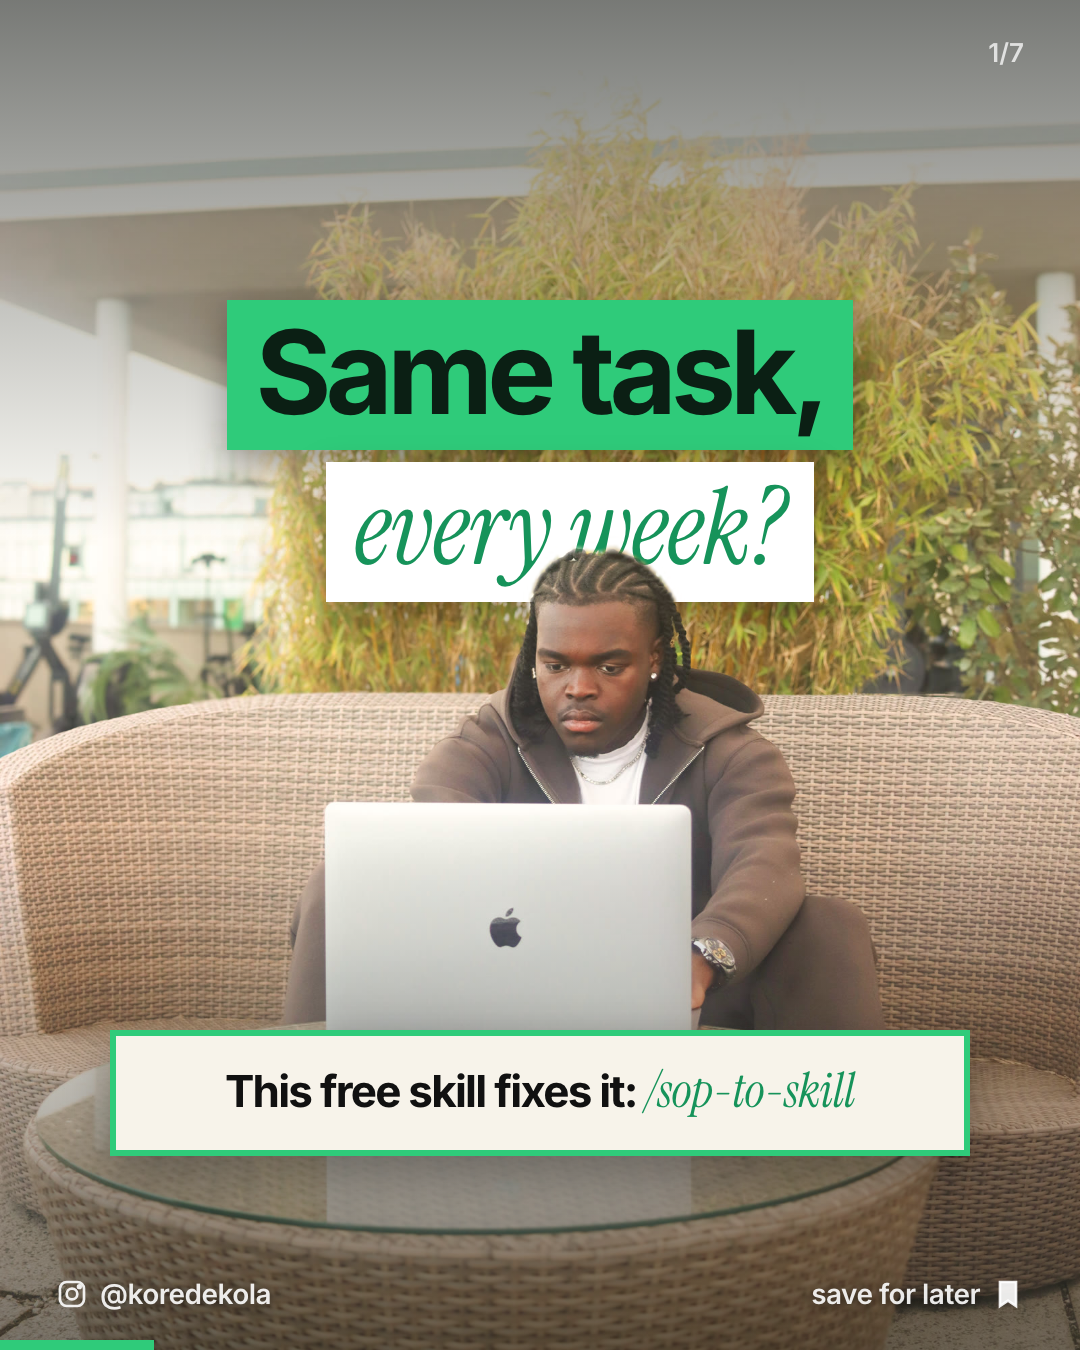
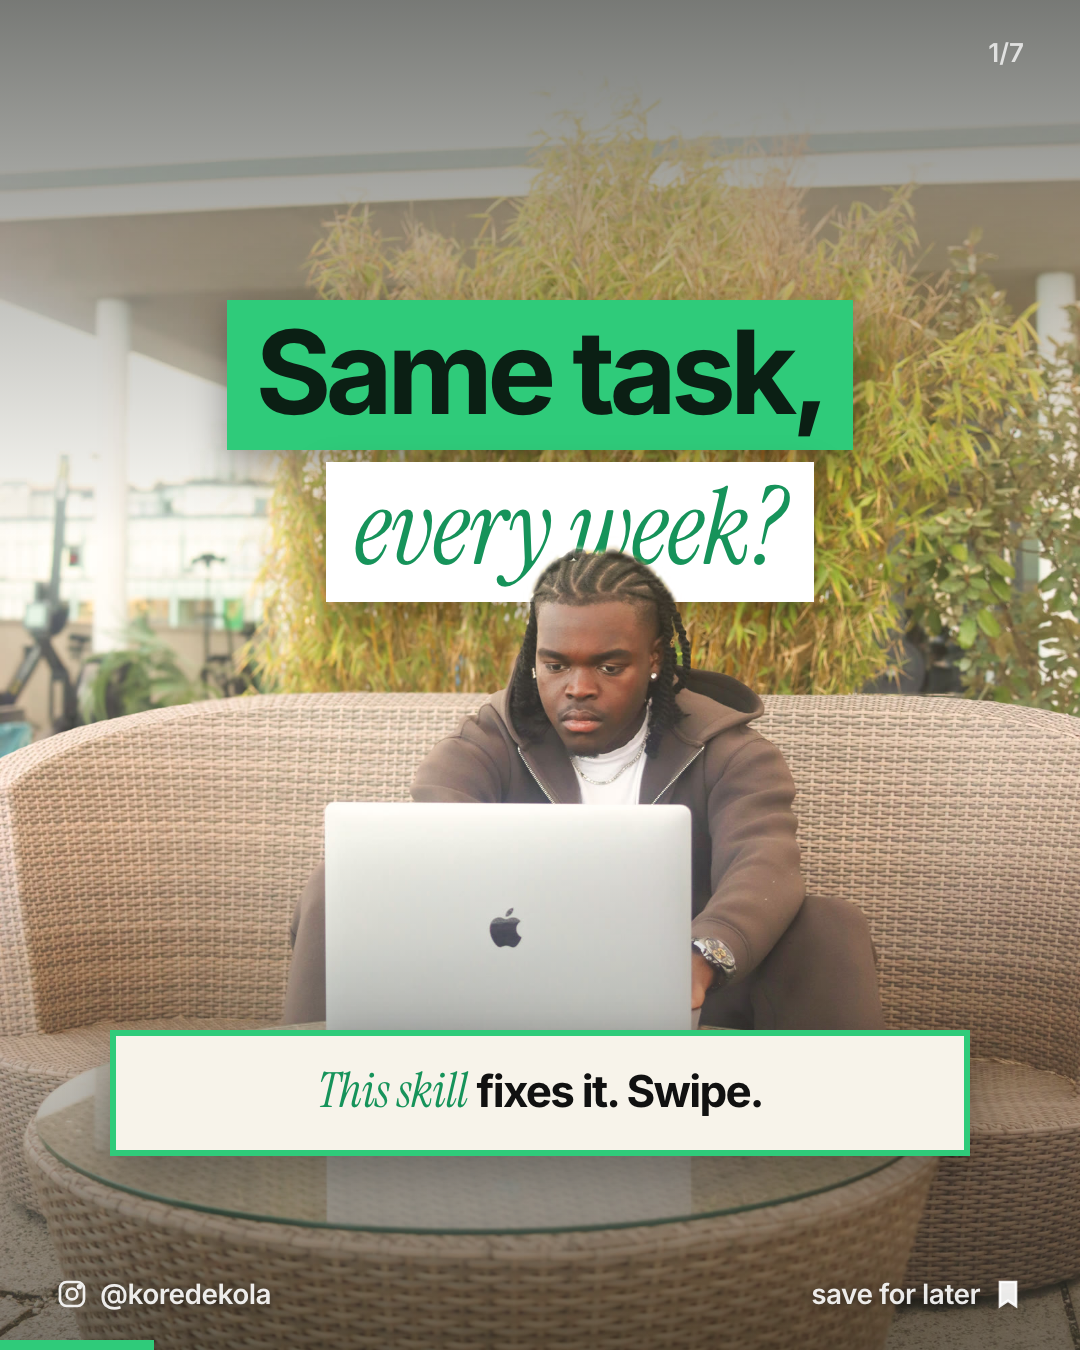
Personal carousels: no skill names on covers or captions, 'this skill' wording, Monday cover without Grr

Changed region(s): [[0.2139, 0.7778, 0.7028, 0.84], [0.7333, 0.7778, 0.7944, 0.84]]

diff --git a/content/2026-W45/ig-personal-thu-1230-monday-ai-setup/copy.md b/content/2026-W45/ig-personal-thu-1230-monday-ai-setup/copy.md
@@ -1,10 +1,10 @@
 ## Caption
-Grr. Mondays. These 3 skills fix them.
+Mondays eat your whole morning? 3 skills fix that.
 Comment AI and I'll send you all 5 of my starter skills free, plus the permission sheet.
 
-8:00 /weekly-numbers: the 3 numbers that moved, the math, and what to ask your team.
-9:00 /inbox-triage: sorted, flagged, replies drafted. Nothing sent.
-10:45 /meeting-prep: a 1-page brief for the 11:00 call.
+8:00: the 3 numbers that moved, the math, and what to ask your team.
+9:00: inbox sorted, flagged, replies drafted. Nothing sent.
+10:45: a 1-page brief for the 11:00 call.
 
 Real SKILL.md files. Drop them into Claude or paste them into any AI chat, no code.
 
@@ -13,9 +13,9 @@ Comment AI and I'll DM them.
 #AI #ChatGPT #ClaudeAI #productivity #aitools
 
 ## Alt text
-6-slide carousel from @koredekola in black and cream. Cover: Korede in a white jacket, his head in front of the headline Grr. Mondays. 3 skills fix them., with a Grr Mondays chip. Slide 2 (video): /weekly-numbers summarising a week in a terminal and a chat. Slide 3 (video): /inbox-triage sorting emails. Slide 4: /meeting-prep and its brief. Slide 5: 2 more skills and the permission sheet, locked. Last slide: Comment AI, I'll send all 5 skills.
+6-slide carousel from @koredekola in black and cream. Cover: Korede in a white jacket, his head in front of the headline Mondays eat your whole morning? 3 skills fix that. Slide 2 (video): /weekly-numbers summarising a week in a terminal and a chat. Slide 3 (video): /inbox-triage sorting emails. Slide 4: /meeting-prep and its brief. Slide 5: 2 more skills and the permission sheet, locked. Last slide: Comment AI, I'll send all 5 skills.
 
 ## Notes
 Freebie (keyword AI): assets/freebies/ai-employee-starter-pack.pdf + assets/freebies/bundles/ai-starter-skills.zip (all 3 Monday skills are in it). Listed in config/offers.json.
 Video slide footage: screen recordings made with scripts/record-demo.mjs of templates/demo-run replaying each skill on a demo task (assets/demo-clips/<id>.mp4, defs in assets/demo-clips/demos.json). Demo data (names, orders, amounts) is illustrative. No reels or AI-made content of ours shown. Clips: weekly-numbers-term-ink, weekly-numbers-chat-ink, inbox-triage-term-ink, inbox-triage-chat-ink.
-Cover meme: "Grr Mondays" (Ted 2 line, trending Oct 2026). CTA slide uses the city dusk background.
+CTA slide uses the city dusk background.

diff --git a/CLAUDE.md b/CLAUDE.md
@@ -58,6 +58,8 @@ Formats: `static`, `carousel`, `video`. Vary aspect ratios across the week (1:1,
 - **Personal carousels (Korede, 2026-10-24)**: 1 photo of him per carousel, background swapped now and then, the same photo blurred behind the inner slides with clean visuals on top. Simple, professional, clean.
 - **Memes and hook covers (Korede, 2026-10-24)**: covers must use current, scroll-stopping hook styles; sometimes put a relevant, up-to-date meme (format trending in the last 2 weeks) on the cover or last slide of a carousel, rebuilt with our cast, Korede's photo or a generated image in that format. Personal carousels: Korede's head in front of the title (depth layering, never cropped), a visual on every slide (never an empty slide), varied colour themes (no blue; Korede dislikes it), and video slides where there's footage to show.
 
+- **Never name the skill/tool on the cover or in the caption's first 3 lines (Korede, 2026-10-24)**: say "this skill" / "these 3 skills" and make people swipe for the names; no slash-names in captions at all. No cringe meme captions like "Grr Mondays".
+
 ## Content rules
 - Topics: our business (logistics/3PL, e-commerce, AI systems) plus what's trending in AI right now. Each week starts with fresh research (`content/<week>/trends.md`, sources and dates cited, nothing older than 14 days) and the plan mixes trending stories into the pillars, always tied back to what it means for operators.
 - Pillars: `belief-shift` ("if you believe X, it's costing you Y"), `tools-vs-systems`, `calm-playbooks` (for overwhelmed founders), `operational-clarity`, `case-studies` (results from systems). Angle everything at logistics/3PL and e-commerce operators.

diff --git a/content/2026-W44/li-personal-sun-1900-100-ai-employees/copy.md b/content/2026-W44/li-personal-sun-1900-100-ai-employees/copy.md
@@ -5,15 +5,15 @@ Comment AI and I'll send you all 5 starter skills plus the permission sheet, fre
 
 We run Content Systems.ai on 100+ AI employees. Every 1 of them started as a small, drafts-only skill like these:
 
-/inbox-triage sorts what you paste into act today, this week, FYI and ignore, flags anything about money, and drafts the replies. It never sends.
+Skill 1 sorts what you paste into act today, this week, FYI and ignore, flags anything about money, and drafts the replies. It never sends.
 
-/meeting-prep hands you a 1-page brief 15 minutes before the call: who's in the room, where things stand, 3 questions worth asking.
+Skill 2 hands you a 1-page brief 15 minutes before the call: who's in the room, where things stand, 3 questions worth asking.
 
-/follow-up-writer turns call notes into a clear email: what you agreed, who does what by when, the next step.
+Skill 3 turns call notes into a clear email: what you agreed, who does what by when, the next step.
 
 They're real SKILL.md files. Drop them into Claude, or paste them into a project in any AI chat. No code.
 
-/weekly-numbers, /sop-writer and the permission sheet are in the pack too. The sheet says what each AI employee may do alone, and nothing sends without a person saying yes.
+2 more skills and the permission sheet are in the pack too. The sheet says what each AI employee may do alone, and nothing sends without a person saying yes.
 
 Comment AI and I'll DM it to you.
 

diff --git a/content/2026-W45/li-personal-tue-0800-free-approval-sheet/copy.md b/content/2026-W45/li-personal-tue-0800-free-approval-sheet/copy.md
@@ -5,11 +5,11 @@ Comment SYSTEMS and I'll send you all 3 skills plus the approval sheet, free.
 
 Content Systems.ai runs on 100+ AI employees. They draft, sort, quote and follow up all day. Not 1 of them moves money or makes a promise without a person saying yes. These 3 skills are how:
 
-/approval-gate checks every draft or action for the 4 things that always wait: money out, messages that promise something, quotes and bookings, and deleting records. The risky 1 becomes an approval request with the approver named. The rest goes.
+Skill 1 checks every draft or action for the 4 things that always wait: money out, messages that promise something, quotes and bookings, and deleting records. The risky 1 becomes an approval request with the approver named. The rest goes.
 
-/promise-check marks every line in a customer reply that promises a date, a refund or an exception, and checks it against your policy.
+Skill 2 marks every line in a customer reply that promises a date, a refund or an exception, and checks it against your policy.
 
-/draft-only prepares the action, the booking, the refund, and waits for your yes.
+Skill 3 prepares the action, the booking, the refund, and waits for your yes.
 
 They're real SKILL.md files for Claude or any AI chat. The approval sheet tells your team who signs off on what.
 

diff --git a/content/2026-W45/li-personal-thu-0800-save-owner-sheet/copy.md b/content/2026-W45/li-personal-thu-0800-save-owner-sheet/copy.md
@@ -1,5 +1,5 @@
 ## Caption
-Who's watching your AI helpers? These 2 free skills fix it: /helper-owner and /daily-note.
+Who's watching your AI helpers? 2 free skills fix it.
 
 Comment SYSTEMS and I'll send you both skills plus the 1-page owner sheet, free.
 
@@ -7,9 +7,9 @@ Comment SYSTEMS and I'll send you both skills plus the 1-page owner sheet, free.
 
 We run Content Systems.ai on 100+ AI employees, and every 1 has a person's name on it.
 
-/helper-owner writes the owner sheet for each helper: its job, its owner and backup, what it does alone, what needs a yes, what it never does, and its off switch.
+Skill 1 writes the owner sheet for each helper: its job, its owner and backup, what it does alone, what needs a yes, what it never does, and its off switch.
 
-/daily-note has the helper send its owner a 30-second note every day: what it handled, what it passed on, what got corrected, and anything unusual.
+Skill 2 has the helper send its owner a 30-second note every day: what it handled, what it passed on, what got corrected, and anything unusual.
 
 A helper that drifts gets noticed by its owner, not a customer.
 

diff --git a/content/2026-W44/ig-personal-sun-1100-ai-feels-mid/copy.md b/content/2026-W44/ig-personal-sun-1100-ai-feels-mid/copy.md
@@ -2,10 +2,10 @@
 Your AI feels mid? These 4 skills fix it.
 Comment AI and I'll send you all 4 free, plus my 5 starter skills.
 
-/context-pack reads your SOP, 3 past examples and your tone before it drafts.
-/draft-only prepares the refund, the email, the order, then waits for your yes.
-/sop-to-skill turns a process you repeat into a skill folder, same format as Anthropic's open skills repo.
-/self-check checks the draft against your rules before you ever see it.
+Skill 1 reads your SOP, 3 past examples and your tone before it drafts.
+Skill 2 prepares the refund, the email, the order, then waits for your yes.
+Skill 3 turns a process you repeat into a skill folder, same format as Anthropic's open skills repo.
+Skill 4 checks the draft against your rules before you ever see it.
 
 Each 1 is a real SKILL.md you drop into Claude or paste into any AI chat.
 

diff --git a/content/2026-W45/ig-personal-mon-1230-sop-template-free/copy.md b/content/2026-W45/ig-personal-mon-1230-sop-template-free/copy.md
@@ -1,10 +1,10 @@
 ## Caption
-Same task, every week? This free skill fixes it: /sop-to-skill.
-Comment AI and I'll send you /sop-to-skill and /skill-test free, plus my template sheet.
+Same task, every week? This skill fixes it.
+Comment AI and I'll send you the skill plus the 1 that tests it, free, with my template sheet.
 
 Give it your SOP (or a voice note of you doing the task) and 3 real examples. It writes a ready SKILL.md folder: name, when to use it, the steps, and what needs your yes.
 
-Then /skill-test runs it on last week's work and shows you where it's off before a customer finds it.
+Then the second skill runs it on last week's work and shows you where it's off before a customer finds it.
 
 Skills are an open format now. Anthropic's skills are free on GitHub, and the same file works in 70+ AI tools.
 

diff --git a/content/2026-W44/ig-personal-sat-1500-5-ai-takes/copy.md b/content/2026-W44/ig-personal-sat-1500-5-ai-takes/copy.md
@@ -2,8 +2,8 @@
 5 AI takes people won't like, plus the free skill that fixes each 1.
 Comment AI and I'll send you all 5 skills, plus my starter pack.
 
-Take 1: if your AI can't say "I don't know", it's guessing. /confidence-check
-Take 2: agents that act without asking are a liability. /draft-only
+Take 1: if your AI can't say "I don't know", it's guessing.
+Take 2: agents that act without asking are a liability.
 Take 3 is the 1 that hurts. It's on slide 4.
 
 Every skill is a real SKILL.md file for Claude or any AI chat.
